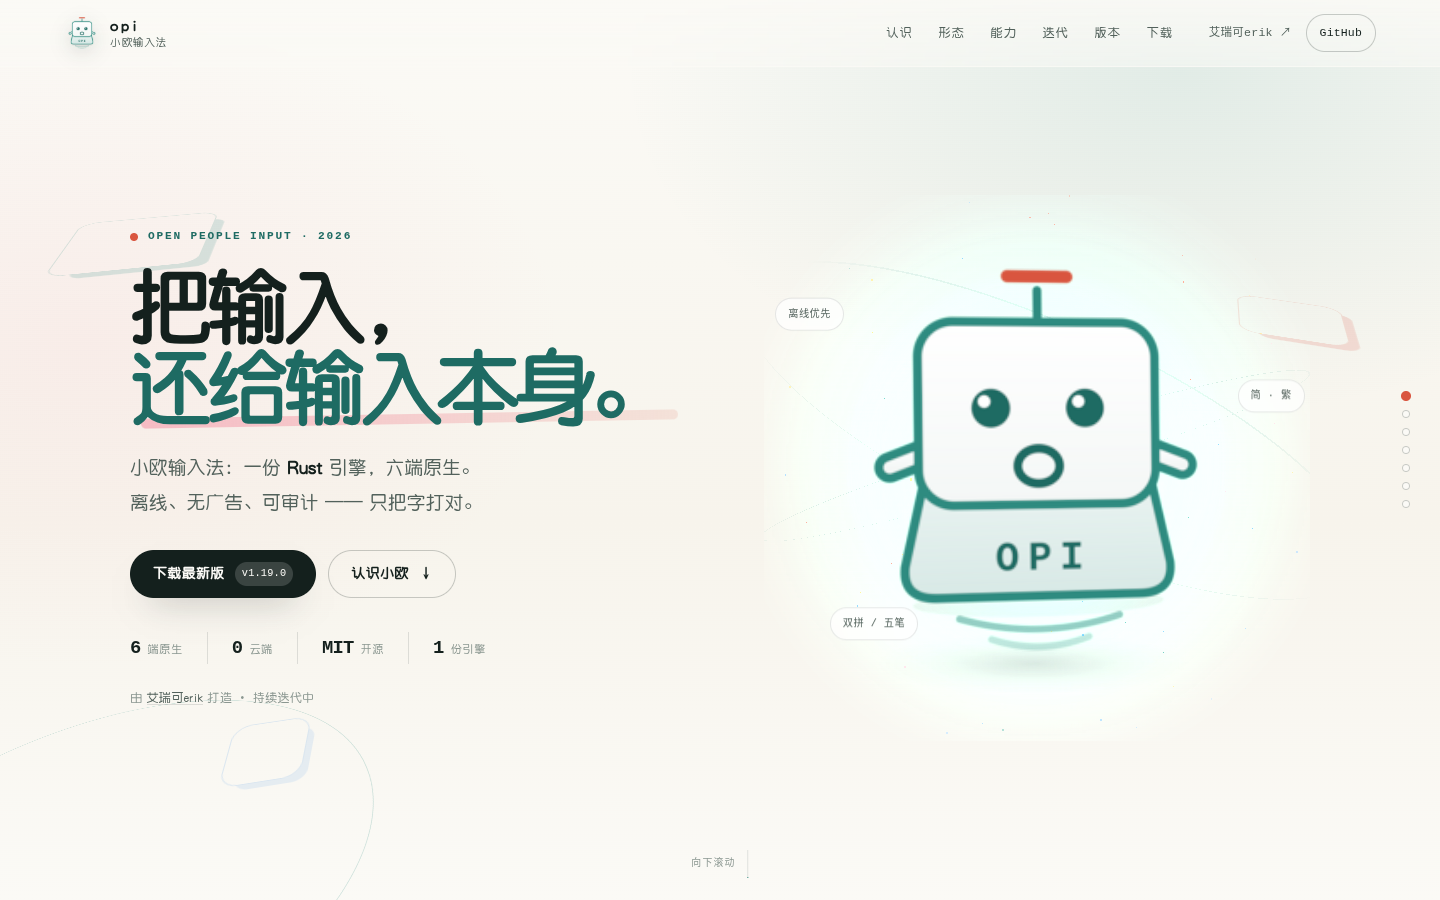
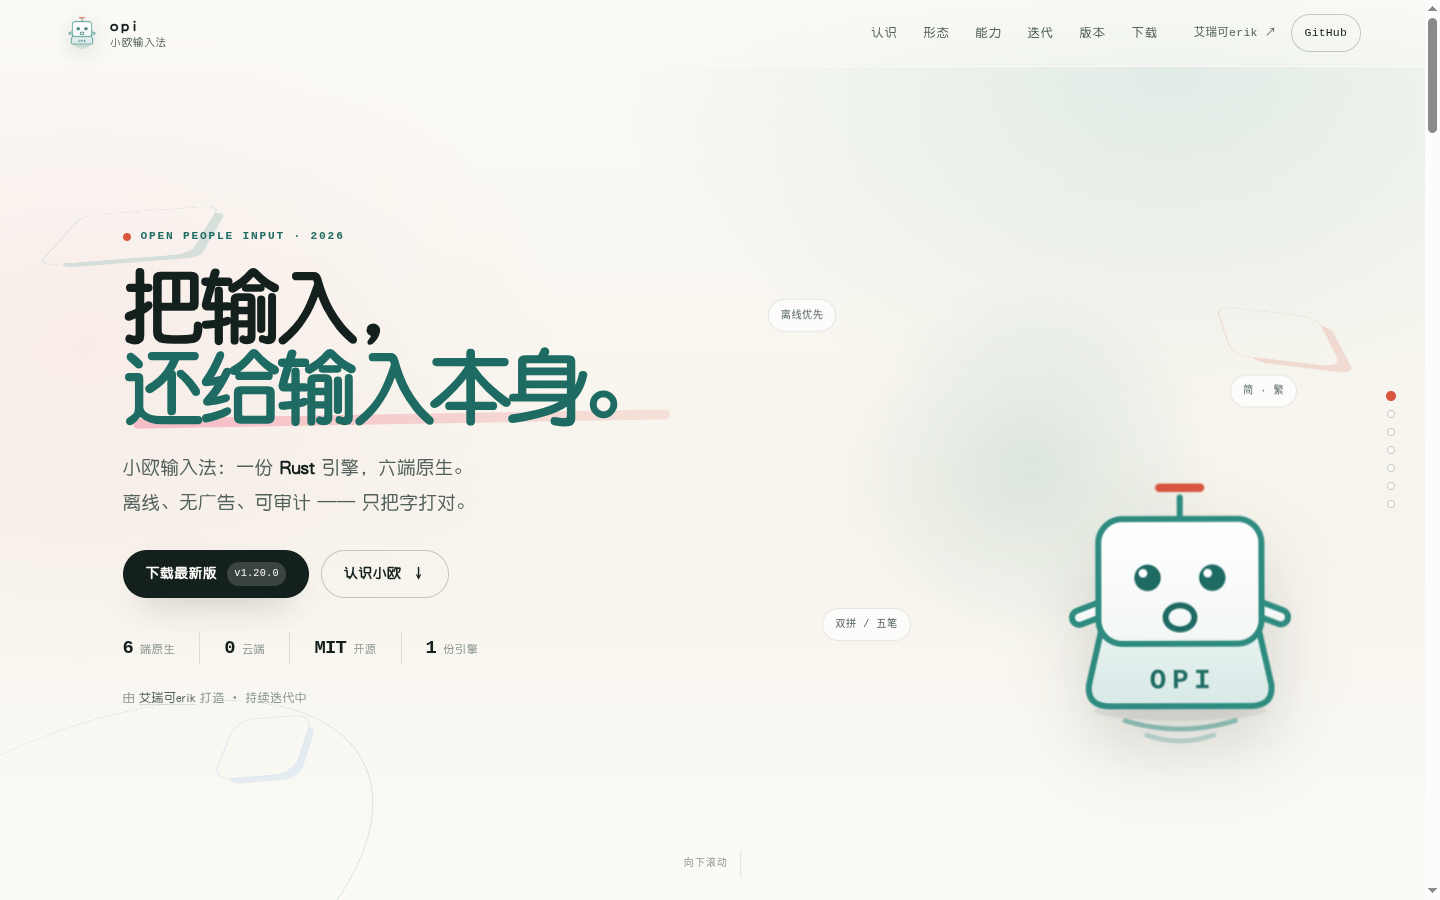
release: 版本号提升到 1.20.0，更新文档与站点

diff --git a/site/index.html b/site/index.html
@@ -54,7 +54,7 @@
           <h1 id="hero-title"><span class="line">把输入，</span><span class="line"><em>还给输入本身。</em></span></h1>
           <p class="lede">小欧输入法：一份 <strong>Rust</strong> 引擎，六端原生。<br>离线、无广告、可审计 —— 只把字打对。</p>
           <div class="hero-actions">
-            <a class="btn btn-primary" href="#download">下载最新版 <span class="btn-meta">v1.19.0</span></a>
+            <a class="btn btn-primary" href="#download">下载最新版 <span class="btn-meta">v1.20.0</span></a>
             <a class="btn btn-ghost" href="#about">认识小欧 <span aria-hidden="true">↓</span></a>
           </div>
           <ul class="hero-facts" aria-label="项目关键词">
@@ -262,23 +262,23 @@
         <div class="releases-copy reveal">
           <p class="eyebrow">05 / 版本日志</p>
           <h2 id="releases-title">每一次提交，<br><em>都留下可查的记录。</em></h2>
-          <p class="body">版本号采用 <code>v主.次.修订</code> 格式，当前版本 <strong>v1.19.0</strong>。发布说明写在 tag 注释与 GitHub Release 里；最新版本在右侧顶部，历史版本收进了可滚动窗口。</p>
+          <p class="body">版本号采用 <code>v主.次.修订</code> 格式，当前版本 <strong>v1.20.0</strong>。发布说明写在 tag 注释与 GitHub Release 里；最新版本在右侧顶部，历史版本收进了可滚动窗口。</p>
           <div class="release-actions">
             <button class="btn btn-ghost memory-trigger" type="button" data-memory-open>回忆 <span aria-hidden="true">↺</span></button>
           </div>
         </div>
         <div class="release-board reveal">
           <article class="release-latest">
-            <a href="https://github.com/erikwang2013/opi/releases/tag/v1.19.0" target="_blank" rel="noopener">
-              <span class="release-version">v1.19.0 <b>最新</b></span>
-              <span class="release-date">2026.10.20</span>
-              <span class="release-note">移动端/桌面/Apple/鸿蒙对齐、Windows 即时生效、贴纸上屏与站点改版</span>
+            <a href="https://github.com/erikwang2013/opi/releases/tag/v1.20.0" target="_blank" rel="noopener">
+              <span class="release-version">v1.20.0 <b>最新</b></span>
+              <span class="release-date">2026.10.21</span>
+              <span class="release-note">iOS 设置与面板修复、鸿蒙全量对齐、macOS 状态栏/设置/键盘、Windows 任务栏宠物图标</span>
               <span class="release-arrow" aria-hidden="true">↗</span>
             </a>
           </article>
           <div class="release-scroll" tabindex="0" role="region" aria-label="历史版本日志，可用鼠标滚轮或键盘滚动">
             <ol class="release-list">
-              <li class="release-item"><a href="https://github.com/erikwang2013/opi/releases/tag/v1.18.0" target="_blank" rel="noopener"><span class="release-version">v1.18.0</span><span class="release-date">2026.10.20</span><span class="release-note">Windows 全局输入/白屏修复、覆盖安装、状态栏与站点改版</span><span class="release-arrow" aria-hidden="true">↗</span></a></li> <li class="release-item"><a href="https://github.com/erikwang2013/opi/releases/tag/v1.17.0" target="_blank" rel="noopener"><span class="release-version">v1.17.0</span><span class="release-date">2026.10.19</span><span class="release-note">：自有表情开关、各端浅底应用图标、Windows EXE 安装器；Linux/Android/Apple/鸿蒙版本同步</span><span class="release-arrow" aria-hidden="true">↗</span></a></li> <li class="release-item"><a href="https://github.com/erikwang2013/opi/releases/tag/v1.16.1" target="_blank" rel="noopener"><span class="release-version">v1.16.1</span><span class="release-date">2026.10.19</span><span class="release-note">安装热重启、状态栏键帽与站点收口</span><span class="release-arrow" aria-hidden="true">↗</span></a></li> <li class="release-item"><a href="https://github.com/erikwang2013/opi/releases/tag/v1.16.0" target="_blank" rel="noopener"><span class="release-version">v1.16.0</span><span class="release-date">2026.10.19</span><span class="release-note">官网与多端交付</span><span class="release-arrow" aria-hidden="true">↗</span></a></li>
+              <li class="release-item"><a href="https://github.com/erikwang2013/opi/releases/tag/v1.19.0" target="_blank" rel="noopener"><span class="release-version">v1.19.0</span><span class="release-date">2026.10.20</span><span class="release-note">移动端/桌面/Apple/鸿蒙对齐、Windows 即时生效、贴纸上屏与站点改版</span><span class="release-arrow" aria-hidden="true">↗</span></a></li> <li class="release-item"><a href="https://github.com/erikwang2013/opi/releases/tag/v1.18.0" target="_blank" rel="noopener"><span class="release-version">v1.18.0</span><span class="release-date">2026.10.20</span><span class="release-note">Windows 全局输入/白屏修复、覆盖安装、状态栏与站点改版</span><span class="release-arrow" aria-hidden="true">↗</span></a></li> <li class="release-item"><a href="https://github.com/erikwang2013/opi/releases/tag/v1.17.0" target="_blank" rel="noopener"><span class="release-version">v1.17.0</span><span class="release-date">2026.10.19</span><span class="release-note">：自有表情开关、各端浅底应用图标、Windows EXE 安装器；Linux/Android/Apple/鸿蒙版本同步</span><span class="release-arrow" aria-hidden="true">↗</span></a></li> <li class="release-item"><a href="https://github.com/erikwang2013/opi/releases/tag/v1.16.1" target="_blank" rel="noopener"><span class="release-version">v1.16.1</span><span class="release-date">2026.10.19</span><span class="release-note">安装热重启、状态栏键帽与站点收口</span><span class="release-arrow" aria-hidden="true">↗</span></a></li> <li class="release-item"><a href="https://github.com/erikwang2013/opi/releases/tag/v1.16.0" target="_blank" rel="noopener"><span class="release-version">v1.16.0</span><span class="release-date">2026.10.19</span><span class="release-note">官网与多端交付</span><span class="release-arrow" aria-hidden="true">↗</span></a></li>
               <li class="release-pet pet-a" aria-hidden="true"><img src="assets/pet/forms/cute.png" width="58" height="58" loading="lazy" decoding="async" alt=""></li> <li class="release-item"><a href="https://github.com/erikwang2013/opi/releases/tag/v1.15.1" target="_blank" rel="noopener"><span class="release-version">v1.15.1</span><span class="release-date">2026.10.19</span><span class="release-note">桌面 en/pro 键只在英文输入法生效，新增隐藏开关，老插件提示重启</span><span class="release-arrow" aria-hidden="true">↗</span></a></li> <li class="release-item"><a href="https://github.com/erikwang2013/opi/releases/tag/v1.15.0" target="_blank" rel="noopener"><span class="release-version">v1.15.0</span><span class="release-date">2026.10.18</span><span class="release-note">英文普通/专业切换；状态栏 en/pro；GIF 贴纸显示与输入；安装不再重启 fcitx5</span><span class="release-arrow" aria-hidden="true">↗</span></a></li>
               <li class="release-item"><a href="https://github.com/erikwang2013/opi/releases/tag/v1.14.0" target="_blank" rel="noopener"><span class="release-version">v1.14.0</span><span class="release-date">2026.10.18</span><span class="release-note">英文候选/数字行/切换重置；自有表情内置字体与动图；宠物多形态动效</span><span class="release-arrow" aria-hidden="true">↗</span></a></li> <li class="release-item"><a href="https://github.com/erikwang2013/opi/releases/tag/v1.13.0" target="_blank" rel="noopener"><span class="release-version">v1.13.0</span><span class="release-date">2026.10.18</span><span class="release-note">繁体现代词与康熙并入默认词库；Windows MSI 自带 TSF DLL 并自动注册</span><span class="release-arrow" aria-hidden="true">↗</span></a></li> <li class="release-item"><a href="https://github.com/erikwang2013/opi/releases/tag/v1.12.0" target="_blank" rel="noopener"><span class="release-version">v1.12.0</span><span class="release-date">2026.10.18</span><span class="release-note">自有表情字体与短码；输入即得表情；覆盖安装自动重启服务</span><span class="release-arrow" aria-hidden="true">↗</span></a></li>
               <li class="release-item"><a href="https://github.com/erikwang2013/opi/releases/tag/v1.11.0" target="_blank" rel="noopener"><span class="release-version">v1.11.0</span><span class="release-date">2026.10.18</span><span class="release-note">自有表情独立成图片贴纸；百家姓/网络流行语并入简体词库</span><span class="release-arrow" aria-hidden="true">↗</span></a></li> <li class="release-item"><a href="https://github.com/erikwang2013/opi/releases/tag/v1.10.1" target="_blank" rel="noopener"><span class="release-version">v1.10.1</span><span class="release-date">2026.10.18</span><span class="release-note">表情 689（🔨/🤦 可进最近使用）；切英文重推 ⇧；iOS/鸿蒙表情页对齐</span><span class="release-arrow" aria-hidden="true">↗</span></a></li> <li class="release-pet pet-b" aria-hidden="true"><img src="assets/pet/forms/puzzled.png" width="58" height="58" loading="lazy" decoding="async" alt=""></li>
@@ -328,14 +328,14 @@
         </div>
         <h3 class="download-group-title reveal">主推平台 <span>已验证 · 推荐下载</span></h3>
         <div class="download-grid">
-          <a class="download-card is-primary reveal" href="download/opi-1.19.0-android-universal.apk" download data-os="android">
+          <a class="download-card is-primary reveal" href="download/opi-1.20.0-android-universal.apk" download data-os="android">
             <span class="os-mark"><img src="assets/pet/forms/idle.png" width="46" height="46" alt="" loading="lazy" decoding="async"></span>
             <span class="os-name">Android</span>
             <span class="os-meta">原生 IME · .apk</span>
             <span class="os-note">Android 5.1+ · arm64 / armv7 / x86_64</span>
             <span class="os-cta">下载 APK <span aria-hidden="true">↓</span></span>
           </a>
-          <a class="download-card is-primary reveal" href="download/opi-1.19.0-windows-x64-setup.exe" download data-os="windows">
+          <a class="download-card is-primary reveal" href="download/opi-1.20.0-windows-x64-setup.exe" download data-os="windows">
             <span class="os-mark"><img src="assets/pet/forms/waiting.png" width="46" height="46" alt="" loading="lazy" decoding="async"></span>
             <span class="os-name">Windows</span>
             <span class="os-meta">TSF 插件 · .exe x64</span>
@@ -347,13 +347,13 @@
             <span class="os-name">Linux</span>
             <span class="os-meta">fcitx5 插件 · .deb / .rpm</span>
             <span class="os-note">Debian / Ubuntu 用 .deb；Fedora / openSUSE 用 .rpm</span>
-            <a class="os-cta" href="download/opi-1.19.0-linux-amd64.deb" download>下载 .deb <span aria-hidden="true">↓</span></a>
-            <a class="os-cta" href="download/opi-1.19.0-linux-x86_64.rpm" download>下载 .rpm <span aria-hidden="true">↓</span></a>
+            <a class="os-cta" href="download/opi-1.20.0-linux-amd64.deb" download>下载 .deb <span aria-hidden="true">↓</span></a>
+            <a class="os-cta" href="download/opi-1.20.0-linux-x86_64.rpm" download>下载 .rpm <span aria-hidden="true">↓</span></a>
           </div>
         </div>
         <h3 class="download-group-title is-minor reveal">其他平台 <span>内测 · 需自行签名</span></h3>
         <div class="download-grid is-minor">
-          <a class="download-card reveal" href="download/opi-1.19.0-macos-universal.pkg" download data-os="macos">
+          <a class="download-card reveal" href="download/opi-1.20.0-macos-universal.pkg" download data-os="macos">
             <span class="beta-badge">内测</span>
             <span class="os-mark"><img src="assets/pet/forms/coquettish.png" width="46" height="46" alt="" loading="lazy" decoding="async"></span>
             <span class="os-name">macOS</span>
@@ -361,7 +361,7 @@
             <span class="os-note">内测版本，约 7 天使用周期 · unsigned，需自行签名</span>
             <span class="os-cta">下载 PKG <span aria-hidden="true">↓</span></span>
           </a>
-          <a class="download-card reveal" href="download/opi-1.19.0-ios-unsigned.ipa" download data-os="ios">
+          <a class="download-card reveal" href="download/opi-1.20.0-ios-unsigned.ipa" download data-os="ios">
             <span class="beta-badge">内测</span>
             <span class="os-mark"><img src="assets/pet/forms/pleasing.png" width="46" height="46" alt="" loading="lazy" decoding="async"></span>
             <span class="os-name">iOS</span>
@@ -369,7 +369,7 @@
             <span class="os-note">内测版本，约 7 天使用周期 · unsigned IPA，用 Sideloadly / AltStore 重签</span>
             <span class="os-cta">下载 IPA <span aria-hidden="true">↓</span></span>
           </a>
-          <a class="download-card reveal" href="download/opi-1.19.0-harmonyos-unsigned.hap" download data-os="harmony">
+          <a class="download-card reveal" href="download/opi-1.20.0-harmonyos-unsigned.hap" download data-os="harmony">
             <span class="beta-badge">内测</span>
             <span class="os-mark"><img src="assets/pet/forms/knocking.png" width="46" height="46" alt="" loading="lazy" decoding="async"></span>
             <span class="os-name">HarmonyOS</span>
@@ -380,7 +380,7 @@
         </div>
         <div class="download-foot reveal">
           <p>文件直接放在本站的 <code>download/</code> 目录，不跳转 GitHub。安装说明见发行说明。</p>
-          <p class="download-hint">下载目录的版本与文件名和 <code>dist/</code> 保持一致；页面版本 v1.19.0。</p>
+          <p class="download-hint">下载目录的版本与文件名和 <code>dist/</code> 保持一致；页面版本 v1.20.0。</p>
         </div>
         <aside class="donate reveal" aria-labelledby="donate-title">
           <div class="donate-copy">

diff --git a/docs/install/macos.md b/docs/install/macos.md
@@ -10,6 +10,12 @@
 > | `macos/` 下的 Swift（7 个文件） | **2026-10-20 的 7 个文件**已在 run `39425977787`（head 739df45）由 CI `apple.yml` 的 `swiftc macos/*.swift` 真编过（typecheck + 两架构 + 链接 + ad-hoc 签名打包）；运行时行为仍是 0 验证 | 本机仍是 Linux（`import InputMethodKit` 就断）；编译由 CI 的 macos-latest 补上，真机未装过；见 §4.5 |
 > | `macos/OpiFFI.h` | 过了 `clang -fsyntax-only`（C 与 C++ 两种模式）。⏳ 2026-10-09 起**也被链接过了**：swiftc 真编时把它当桥接头、并链上 Rust 库（CI `apple.yml`，run 37935240583，见 §4.5） | 「clang 说这堆声明自洽」与「ld 能把它们接到 Rust 的符号上」是两件事——后者 2026-10-09 由 CI 补上；**没被 Swift 调到的声明**仍只过了语法检查 |
 >
+> **2026-10-21 对齐轮**：按 Linux 补齐悬浮状态栏（仅 opi 输入源激活时显示）、8 页设置
+> （常用/按键/外观/状态栏/符号与表情/词库/五笔/关于）、表情/贴纸、宠物图标与自绘
+> 虚拟键盘；Apple CI run `39486273199` 真编译通过。**运行期（IMK 加载、NSPanel、
+> 状态栏激活时序、虚拟键盘焦点）仍未验证**；ENPRO、Shift 轻按、IMKCandidates 皮肤/
+> 字号/宠物等平台不可达项按禁用/明确标注处理。
+>
 > **别把「Rust 侧能编」读成「macOS 端能用」。** 本项目已经被「没被编译器看过的代码」
 > 坑过两次，本目录的存在正是为了避免第三次：
 >

diff --git a/docs/install/ios.md b/docs/install/ios.md
@@ -7,7 +7,7 @@
 > | 层 | 状态 | 判据 |
 > |---|---|---|
 > | Rust 侧 C ABI（`crates/opi-ffi`） | **已实测**能为 iOS 目标编译、能产出 `libopi_ffi.a` | 见「产出 libopi_ffi.a」一节，本机可复现 |
-> | `ios/` 下的 Swift（`ios/*.swift`，数量不写死） | **2026-10-09 起：过了真编译器**（CI `apple.yml` 对 `ios/*.swift` glob 跑 `swiftc -typecheck` + 真编 + 与 Rust 静态库链接；2026-10-20 的 run 39425977787 对当前全部文件绿）。但**运行时行为仍是 0 验证** | 本机仍是 Linux（`import UIKit` 就断），编译这一层由 CI 的 macos-latest 补上；见 §4.5 |
+> | `ios/` 下的 Swift（`ios/*.swift`，数量不写死） | **2026-10-09 起：过了真编译器**（CI `apple.yml` 对 `ios/*.swift` glob 跑 `swiftc -typecheck` + 真编 + 与 Rust 静态库链接；2026-10-21 的 run 39486273199 对当前全部文件绿（含宿主 App 与键盘内设置面板））。但**运行时行为仍是 0 验证** | 本机仍是 Linux（`import UIKit` 就断），编译这一层由 CI 的 macos-latest 补上；见 §4.5 |
 >
 > **别把「Rust 侧能编」读成「iOS 端能用」。** 本项目已经被「没被编译器看过的代码」
 > 坑过两次，本目录的存在正是为了避免第三次：

diff --git a/docs/install/harmony.md b/docs/install/harmony.md
@@ -23,6 +23,16 @@
 > `unzip -l` **13 项**（清单已实测，见 §0.2）。
 > `trad.opid` 仍**不随包**：`opi_load_trad` 不在鸿蒙桥的 use-site 子集里（G2 / G5）。
 > **真机行为（含首次拷贝耗时）仍未验证。**
+>
+> ### ✅ 2026-10-21 订正：**工具条/皮肤/键盘模式/平铺候选/设置持久化对齐 Android**
+>
+> 已补：候选栏与工具条共用槽位、候选栏最右 ⌄ 平铺候选（4 列 × 4 行，按 `TilePack` 规则）、
+> 22 类符号 Swiper、生僻字逐级回退、12 皮肤、键盘模式（繁体/单手/悬浮/游戏/暗光/长辈/
+> 自有开关）、输入模式九项、搜索叠盘、设置持久化（输入模式/上次中文键位/皮肤/模式/
+> 英文 pro/自有/学习）、`opi_load_trad` 桥接与 `trad.opid` 随包、320–430vp 屏幕适配。
+> 无独立设置页：Android 设置项按可用性移入键盘面板。仍缺 C ABI 无出口的 9 键读音列/
+> 钉读音、`commitPendingBuffer`、图片直插（仅剪贴板）与浏览器直开。release HAP
+> 2026-10-21 实测 **49,398,663 B**，`hvigorw assembleHap` 成功；**真机仍未验证**。
 
 > ## 这份文档的性质：**起点与契约，不是可用实现**
 >

diff --git a/README.en.md b/README.en.md
@@ -287,7 +287,7 @@ LICENSE · CONTRIBUTING.md      # MIT full text · contribution guide (incl. dic
 
 ### 📅 Project Status
 
-> **Current stage: v1.19.0 (2026-10-20): six native clients and a static website; Windows dictionaries ship with the package, uninstall cleanup, status-bar control plane and settings that take effect immediately, Android idle toolbar / English candidate bar aligned with iOS, macOS and HarmonyOS, PNG-first sticker clipboards on Android / desktop / HarmonyOS (iOS offers PNG+GIF) and iOS Full Access, and a site revamp with 3D, donation QR codes and ICP filing; Apple and HarmonyOS remain unsigned, and signing plus Windows / iOS / HarmonyOS real-device runs are unverified**
+> **Current stage: v1.20.0 (2026-10-21): iOS in-keyboard settings / pet / panel and English→Chinese fixes, HarmonyOS toolbar / skins / keyboard modes / tiled candidates / persisted settings aligned with Android, macOS status bar / 8-page settings / emoji and stickers / virtual keyboard aligned with Linux, Windows taskbar pet icon and reboot-free uninstall, and 320–430pt mobile sizing; Apple / HarmonyOS remain unsigned, with no device verification**
 
 V1 milestone progress:
 

diff --git a/site/download/README.md b/site/download/README.md
@@ -5,13 +5,13 @@
 
 ```bash
 # 在仓库根目录执行（版本号按实际发布替换）
-cp dist/opi-1.19.0-linux-amd64.deb \
-   dist/opi-1.19.0-linux-x86_64.rpm \
-   dist/opi-1.19.0-windows-x64-setup.exe \
-   dist/opi-1.19.0-android-universal.apk \
-   dist/opi-1.19.0-macos-universal.pkg \
-   dist/opi-1.19.0-ios-unsigned.ipa \
-   dist/opi-1.19.0-harmonyos-unsigned.hap \
+cp dist/opi-1.20.0-linux-amd64.deb \
+   dist/opi-1.20.0-linux-x86_64.rpm \
+   dist/opi-1.20.0-windows-x64-setup.exe \
+   dist/opi-1.20.0-android-universal.apk \
+   dist/opi-1.20.0-macos-universal.pkg \
+   dist/opi-1.20.0-ios-unsigned.ipa \
+   dist/opi-1.20.0-harmonyos-unsigned.hap \
    site/download/
 ```
 

diff --git a/harmony/README.md b/harmony/README.md
@@ -12,6 +12,10 @@
 > 移到 `ets/pages/Index.ets`（页面路径相对 `ets/` 根）。新旧对照、构建命令、
 > 首轮 9 类错误与修复、签名/CI/未验证清单见 **`docs/install/harmony.md` §0**。
 >
+> **2026-10-21**：工具条/12 皮肤/键盘模式/平铺候选/符号/生僻字/表情/贴纸/设置持久化
+> 已按 Android 继续对齐；release HAP 约 **49.4 MB**（含 `trad.opid` 与完整词库），
+> 本机构建通过。仍无签名与真机运行证据。
+>
 > ⚠ 边界：**能构建 ≠ 能安装 ≠ 能用**。没有签名材料、没有设备；
 > 真机安装/运行一条证据都没有。下文「最不确定的 API」仍然有效。
 
